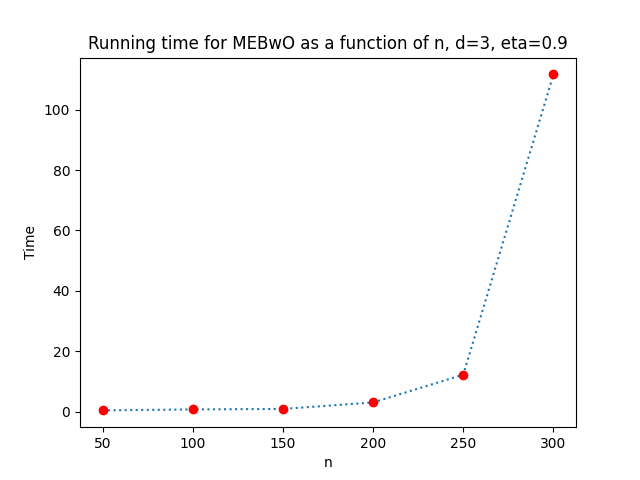
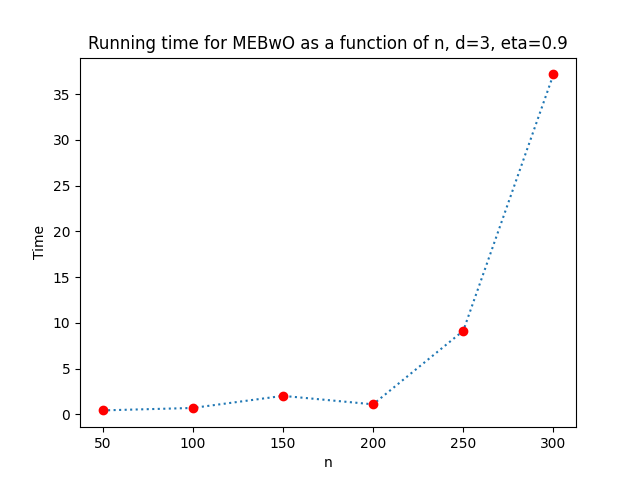
benchmarking

diff --git a/src/test2.py b/src/test2.py
@@ -5,10 +5,10 @@ import numpy as np
 import timeit
 eta = 0.9
 
-test_data = data.generation.uniform_ball_with_ouliters(1000, 2, eta, np.array([0,0]), r1=1, r2=3, sep=1)
+test_data = data.generation.uniform_ball_with_ouliters(10000, 2, eta, np.array([0,0]), r1=1, r2=3, sep=1)
 
 start = timeit.default_timer()
-ball = MEBwO().fit(data=test_data, method="exact", eta=eta, calc_pct=True)
+ball = MEBwO().fit(data=test_data, method="heuristic", eta=eta, calc_pct=True)
 elapsed = timeit.default_timer() - start
 
 print("Total time:\t", elapsed)

diff --git a/src/solution_times_mebwo.py b/src/solution_times_mebwo.py
@@ -4,6 +4,8 @@ import matplotlib.pyplot as plt
 from data.loading import from_csv
 from meb.ball import MEBwO
 
+#TODO: turn these into functions
+
 n_list = [50, 100, 150, 200, 250, 300]
 d_list = [3, 7, 11, 15]
 
@@ -32,7 +34,7 @@ if False:
     plt.savefig("images\mebwo_runtimes_d{}.png".format(d))
     plt.show()
 
-if False:
+if True:
     times = []
     eta = 0.9
     n = 200

diff --git a/src/solution_times_data.py b/src/solution_times_data.py
@@ -9,5 +9,5 @@ d_list = [3, 7, 11, 15]
 for n in n_list:
     for d in d_list:
         data = normal(mean=0, variance=1, n=n, dimension=d)
-        filename = r"src\datasets\normal\normal_n{}_d{}".format(n,d)
+        filename = r"src\datasets\normal\normal_n{}_d{}.csv".format(n,d)
         to_csv(data=data, filename=filename)
